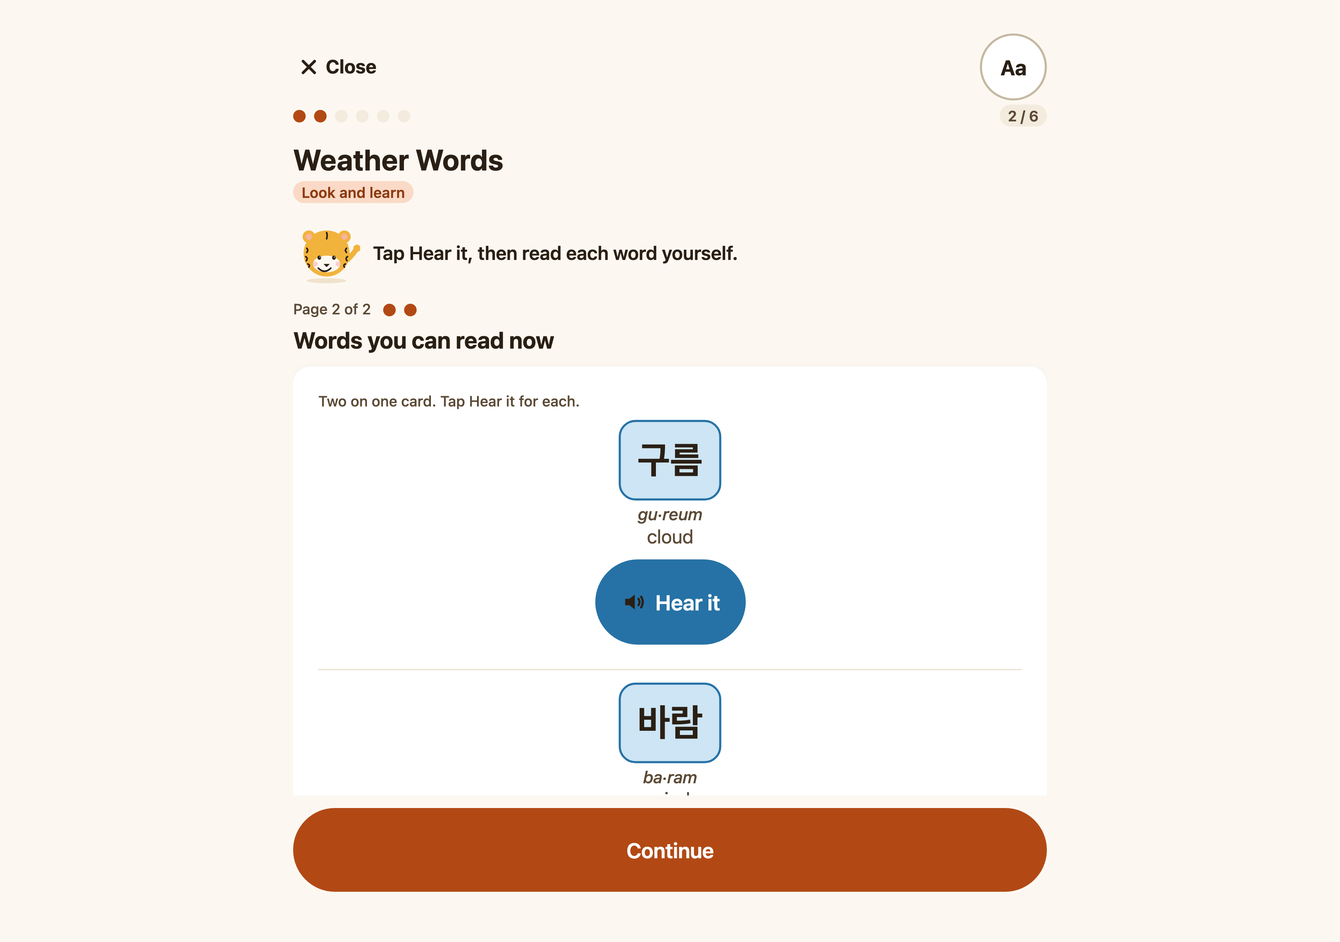
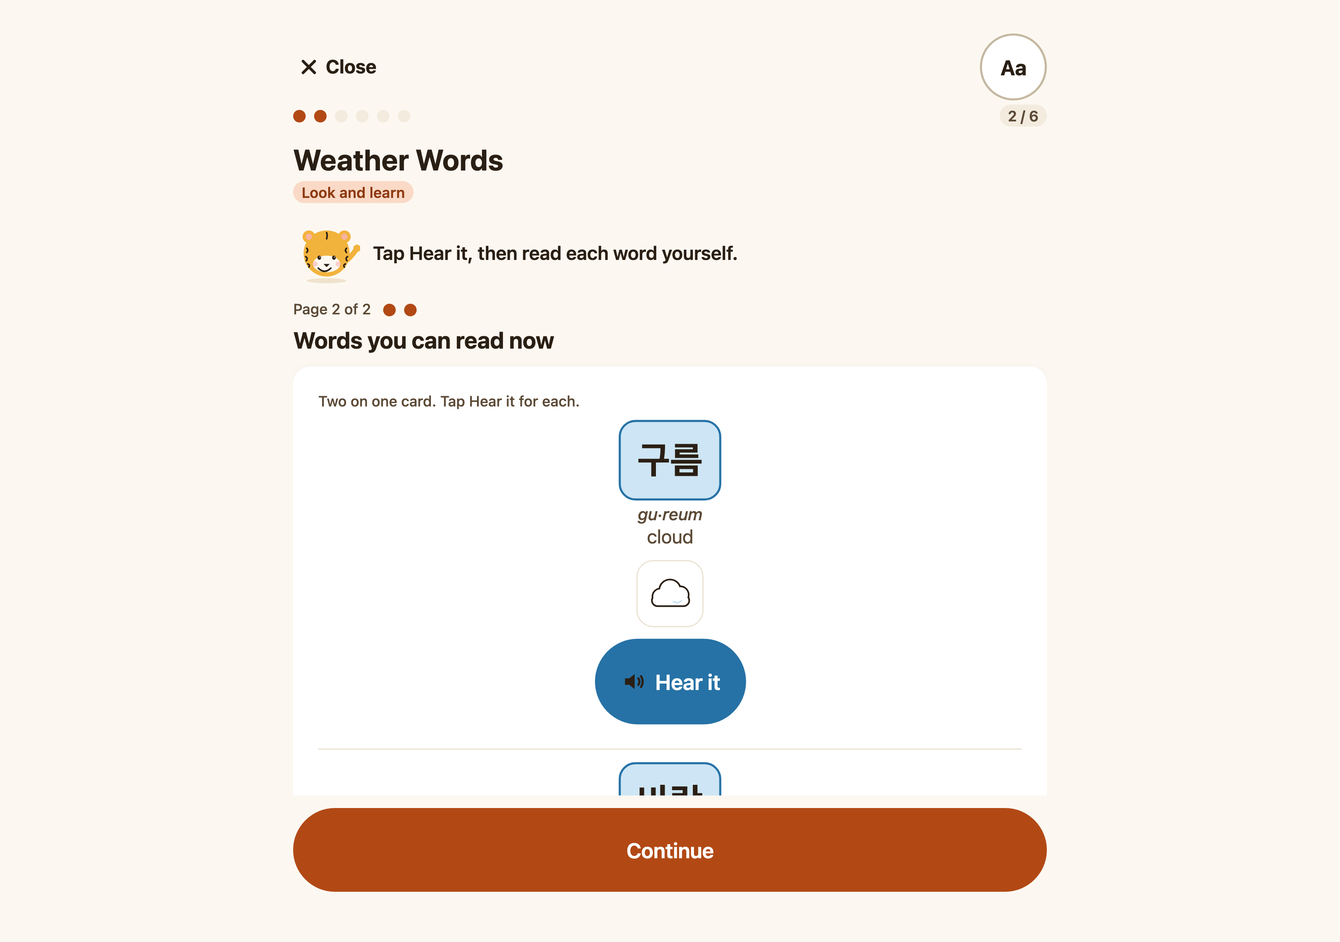
fix(mobile): adaptive pacing review fixes: scaffold ring stays on, pictures kept, every Practice scaffolds, ko ledger (F-CURR-002)
- Listen & Pick keeps a ring once it is on, so the scaffold round's hint survives a miss.
- The compact Discover card keeps each row's picture (smaller).
- Trace a Word and Realia Read Practices can scaffold (78 of 78); U-11 also checks no same-sound scaffold options (U-8) and that each shorter Apply keeps 2 rounds or more.
- planPacing acts only on this quest's run and only when the run reaches the compact page or the shorter Apply.
- A wrong scaffold answer is a plain miss; only a right one is marked hinted.
- ko compactLine per MAR; learner es and ko re-signed (enSha, reviewedBy MAR).
- e2e: compact card at Largest text size; player test waits on state, not a fixed delay.

Changed region(s): [[0.4375, 0.5911, 0.5625, 0.8711]]

diff --git a/apps/mobile/src/screens/quest/__tests__/quest-pacing-player.test.tsx b/apps/mobile/src/screens/quest/__tests__/quest-pacing-player.test.tsx
@@ -46,7 +46,13 @@ function adaptOn(on: boolean): void {
   useRemoteConfigStore.setState({ hydrated: true, cache: { v: 1, fetchedAt: 0, maxAgeS: 300, flags: { questAdapt: { on, pct: 100 } } } });
 }
 
-async function player(questId: string, step: number, reviewsFor: string | null = PROFILE) {
+/** Waits for the screen to reach a state (the Listen & Pick advance runs on a real timer), at most 2 s. */
+const until = async (done: () => boolean): Promise<void> => {
+  for (let i = 0; i < 40 && !done(); i += 1) await settle(50);
+  expect(done()).toBe(true);
+};
+
+async function player(questId: string, step: number | null, reviewsFor: string | null = PROFILE) {
   const ports = { start: () => step, end: vi.fn(), finish: vi.fn(), leave: vi.fn(), track: vi.fn() };
   const r = await render(<QuestPlayerView questId={questId} episodeId={CELL} ports={ports} onOpenGame={() => undefined} onBack={() => undefined} reviewsFor={reviewsFor} />);
   // The chunk loads as the run begins (a moment in the app, a module transform here).
@@ -103,6 +109,9 @@ describe('a strong Practice: the next quest of the cell is compact', () => {
     for (const item of page2.items) expect(shown.join(' ')).toContain(item.type === 'word' ? item.word.ko : '');
     const hears = card!.findAll((n) => typeof n.type === 'string' && /^discover-hear-.*\|sound$/.test(String(n.props['data-testid'] ?? '')));
     expect(hears).toHaveLength(2);
+    // Each row keeps its picture (smaller): the compact card only regroups the page.
+    const pictures = card!.findAll((n) => typeof n.type === 'string' && /^discover-picture-/.test(String(n.props['data-testid'] ?? '')));
+    expect(new Set(pictures.map((n) => String(n.props['data-testid']))).size).toBe(2);
     const [cont] = byTestId(second.r.root, 'discover-continue');
     expect(cont!.props['aria-disabled']).not.toBe(true);
     // The step counter is the quest's own, and the compact pace is reported once.
@@ -118,6 +127,19 @@ describe('a strong Practice: the next quest of the cell is compact', () => {
     const short = useQuestRunStore.getState().short;
     expect(short?.step).toBe(apply);
     expect(short?.scope.cardPairs).toHaveLength(3);
+  });
+
+  it('a run resumed past Apply, or no run at all, is not reported compact and marks no shorter Apply', async () => {
+    await player(Q1.id, PRACTICE);
+    await playPractice(0);
+    const apply = Q2.steps.findIndex((s) => s.kind === 'apply');
+    const resumed = await player(Q2.id, apply + 1);
+    expect(useQuestRunStore.getState().short).toBeNull();
+    expect(adaptEvents(resumed.ports.track)).toEqual([]);
+    useQuestRunStore.getState().reset();
+    const none = await player(Q2.id, null);
+    expect(useQuestRunStore.getState().short).toBeNull();
+    expect(adaptEvents(none.ports.track)).toEqual([]);
   });
 
   it('never makes the quest itself, an earlier quest, another learner or the off switch compact', async () => {
@@ -179,12 +201,37 @@ describe('a hard Practice: one scaffold round before Apply', () => {
 
     const ringed = options.find((o) => String(o.props['aria-label']).startsWith('Look here'))!;
     await press(ringed);
-    await settle(800);
+    await until(() => !screenTexts(r.root).includes(EN.learner.quest.adapt.scaffoldHint));
     // Recorded with the hint, as the memory store records every round; the quest's score and steps are untouched.
     expect(heard).toMatchObject([{ questId: Q1.id, episodeId: CELL, correct: true, hinted: true, asked: { itemId: 'scaffold:1' } }]);
     const after = useQuestRunStore.getState();
     expect([after.correctCount, after.totalCount, after.stepIndex, after.tries.length]).toEqual([before.correctCount, before.totalCount, before.stepIndex, before.tries.length]);
     expect(screenTexts(r.root)).not.toContain(EN.learner.quest.adapt.scaffoldHint);
+    expect(counter(screenTexts(r.root))).toBe(`${PRACTICE + 2} / ${Q1.steps.length}`);
+  });
+
+  it('a miss in the scaffold round keeps the ring on the right card; the miss is recorded once, unhinted, and unscored', async () => {
+    const heard: FirstRoundAnswer[] = [];
+    setFirstRoundAnswerListener((a) => heard.push(a));
+    const { r } = await player(Q1.id, PRACTICE);
+    await playPractice(2);
+    const before = { ...useQuestRunStore.getState() };
+    heard.length = 0;
+    const options = () => r.root.findAll((n) => typeof n.type === 'string' && /^listen-pick-option-o\d$/.test(String(n.props['data-testid'] ?? '')));
+    const ringed = () => options().filter((o) => String(o.props['aria-label']).startsWith('Look here'));
+    const other = options().find((o) => !String(o.props['aria-label']).startsWith('Look here'))!;
+    await press(other);
+    await settle(60);
+    // Still ringed after the miss, under the same hint line ("nothing is ever taken away").
+    expect(ringed()).toHaveLength(1);
+    expect(screenTexts(r.root)).toContain(EN.learner.quest.adapt.scaffoldHint);
+    await press(ringed()[0]!);
+    await until(() => !screenTexts(r.root).includes(EN.learner.quest.adapt.scaffoldHint));
+    expect(heard).toHaveLength(1);
+    expect(heard[0]).toMatchObject({ correct: false, asked: { itemId: 'scaffold:1' } });
+    expect(heard[0]).not.toHaveProperty('hinted');
+    const after = useQuestRunStore.getState();
+    expect([after.correctCount, after.totalCount, after.stars()]).toEqual([before.correctCount, before.totalCount, before.stars()]);
     expect(counter(screenTexts(r.root))).toBe(`${PRACTICE + 2} / ${Q1.steps.length}`);
   });
 

diff --git a/apps/mobile/e2e/web/quest-pacing.spec.ts b/apps/mobile/e2e/web/quest-pacing.spec.ts
@@ -3,6 +3,7 @@ import { readFileSync } from 'node:fs';
 import { join } from 'node:path';
 import { expect, test } from './fixtures';
 import { completeChildForm, headerClose, journeyCellName, keepSidewaysIfAsked, passDiscover, readStored, seedStored } from './helpers';
+import { expectTextFits } from './text-fit';
 
 /**
  * F-CURR-002 section 4.6 (row CM-24) on the web PWA, behind `questAdapt` (the remote copy is the stored one: this build
@@ -18,7 +19,7 @@ interface Cell {
 const NATURE = JSON.parse(readFileSync(join(__dirname, '../../../../content/episodes/stage-2/nature.json'), 'utf8')) as Cell;
 const BOARDS = (NATURE.quests[0]?.scopes.find((s) => s.kind === 'pic-word-match')?.boards ?? []).map((b) => b.pairs.map((p) => p.id));
 
-async function onboard(page: Page): Promise<void> {
+async function onboard(page: Page, textSize?: 'largest'): Promise<void> {
   await page.goto('/');
   await keepSidewaysIfAsked(page);
   await page.getByRole('button', { name: "Let's start" }).click();
@@ -28,6 +29,7 @@ async function onboard(page: Page): Promise<void> {
   const profiles = await readStored<Array<{ id: string }>>(page, 'profiles');
   expect(profiles?.[0]?.id).toBeTruthy();
   await seedStored(page, 'remote-config', { v: 1, fetchedAt: Date.now(), maxAgeS: 300, flags: { questAdapt: { on: true, pct: 100 } } });
+  if (textSize) await seedStored(page, 'device:settings', { uiLocale: 'en', uiLocaleAt: '2026-10-16T09:00:00.000Z', textSize });
   await page.goto('/');
   await expect(page.getByText('Hi, Dami!')).toBeVisible();
   const guide = page.getByTestId('install-guide');
@@ -162,5 +164,32 @@ test('two first-try misses in Practice play one scaffold round of the same words
   await expect(page.getByText(/^4 \/ 6$/)).toBeVisible();
   await expect(page.getByRole('button', { name: 'Play minigame' })).toBeVisible();
   await expect(page.getByTestId('listen-pick-hint')).toHaveCount(0);
+  expect(errors).toEqual([]);
+});
+
+test('the compact card fits at 320 px with the text size at Largest: no sideways scroll, no clipped text, pictures kept', async ({ page }) => {
+  const errors: string[] = [];
+  page.on('pageerror', (e) => errors.push(String(e)));
+  await onboard(page, 'largest');
+  await openNature(page);
+  await startQuest(page, 0);
+  await page.getByRole('button', { name: 'Continue' }).click();
+  await passDiscover(page);
+  await playPractice(page, 0);
+  await expect(page.getByText(/^4 \/ 6$/)).toBeVisible();
+  await headerClose(page).click();
+  await page.getByTestId('confirm-sheet-confirm').click();
+  await startQuest(page, 1);
+  await page.getByRole('button', { name: 'Continue' }).click();
+  await page.getByTestId('discover-continue').click();
+  const card = page.getByTestId('discover-compact');
+  await expect(card).toBeVisible();
+  // Each row keeps its picture: the compact card only regroups the page.
+  await expect(card.locator('[data-testid^="discover-picture-"]')).toHaveCount(2);
+  await page.setViewportSize({ width: 320, height: 568 });
+  await expectTextFits(page, 'the compact Discover card at Largest');
+  await targetsAtLeast48(page, card);
+  await page.setViewportSize({ width: 320, height: 568 });
+  await page.screenshot({ path: test.info().outputPath('pacing-compact-320-largest.png') });
   expect(errors).toEqual([]);
 });

diff --git a/apps/mobile/src/content/__tests__/upper-stage-curriculum.test.ts b/apps/mobile/src/content/__tests__/upper-stage-curriculum.test.ts
@@ -925,6 +925,8 @@ describe('U-11 every adapted path shows each new item on Discover before it is a
   });
 
   const QUESTS = READY.flatMap(({ cell }) => cell.quests);
+  const scaffolding = new Set<string>();
+  const shortened = new Map<string, [MinigameScope, MinigameScope]>();
   it('runs over every shipped lesson quest', () => {
     expect(QUESTS.length).toBeGreaterThanOrEqual(78);
   });
@@ -947,6 +949,14 @@ describe('U-11 every adapted path shows each new item on Discover before it is a
       const misses = missesOf(practice);
       const scaffolds = misses.flatMap((a, i) => misses.slice(i + 1).map((b) => scaffoldScope(practice, [a, b]))).filter((s): s is MinigameScope => s !== null);
       for (const s of scaffolds) for (const ko of scopeKo(s)) expect(practiceKo.has(ko), ko).toBe(true);
+      // U-8 on every scaffold: a heard round never offers two options that sound the same (soundKey, F-CURR-001 section 3.5).
+      for (const s of scaffolds) {
+        const options = s.listenPick!.rounds[0]!.options.map((o) => o.text!.ko);
+        expect(new Set(options.map(soundKey)).size, `${quest.id} scaffold ${options.join(' / ')}`).toBe(options.length);
+      }
+      if (scaffolds.length > 0) scaffolding.add(quest.id);
+      // The shorter Apply keeps two rounds or more, the first ones of the full Apply.
+      if (shorter) shortened.set(quest.id, [apply, shorter]);
       const scaffoldKo = [...new Set(scaffolds.flatMap(scopeKo))];
       const paths: PacedPath[] = [
         { name: 'standard', surfaces: surfacesOf(quest, false), asked: [...scopeKo(practice), ...scopeKo(apply), ...scopeKo(check)] },
@@ -959,4 +969,22 @@ describe('U-11 every adapted path shows each new item on Discover before it is a
       expect(quest).toEqual(before);
     });
   }
+
+  // After the per-quest checks above (vitest runs a describe's tests in order).
+  it('every shipped Practice with a listed word can scaffold, Trace a Word and keyed Realia Read included', () => {
+    const left = QUESTS.filter((q) => !scaffolding.has(q.id)).map((q) => `${q.id} (${scopeFor(q.steps.find((s) => s.kind === 'practice')!.minigameRef!)!.kind})`);
+    expect(left).toEqual([]);
+  });
+
+  it('every shorter Apply keeps two rounds or more and is the full Apply less its last round', () => {
+    expect(shortened.size).toBeGreaterThan(0);
+    const roundsOf = (s: MinigameScope): unknown[] =>
+      s.listenPick?.rounds ?? s.picWord?.boards ?? s.orderIt?.rounds ?? s.typeHangul?.rounds ?? s.writeFrame?.rounds ?? s.cardPairs ?? s.dialogue ?? [];
+    for (const [id, [full, short]] of shortened) {
+      const [a, b] = [roundsOf(full), roundsOf(short)];
+      expect(b.length, id).toBeGreaterThanOrEqual(2);
+      expect(b, id).toEqual(a.slice(0, -1));
+      expect(short.kind, id).toBe(full.kind);
+    }
+  });
 });

diff --git a/apps/mobile/src/logic/quest-flow/quest-scaffold.ts b/apps/mobile/src/logic/quest-flow/quest-scaffold.ts
@@ -1,4 +1,4 @@
-import type { KoText, ListenPickRound } from '@hangul-route/content-schema';
+import type { KoText, ListenPickRound, RealiaReadRound } from '@hangul-route/content-schema';
 import type { RoundAsked } from '../memory/asked';
 import type { MinigameScope } from '../minigame-config';
 
@@ -7,7 +7,8 @@ import type { MinigameScope } from '../minigame-config';
  * easier format (hear it, then pick it), over the Practice's own items, with the hint showing (the right card ringed
  * from the start). The prompt is the last item missed on the first try; the options are the missed items first,
  * then the Practice's other items, three at most. Nothing new is asked: every text is the Practice scope's own.
- * A Practice whose rounds ask no listed word (Realia Read asks a card, Trace a Word copies a word) has no scaffold.
+ * Trace a Word lists its traced words; Realia Read each round's key word (shown under its question) or, with none,
+ * its answer when the answer is a word (a picture or a figure answer lists nothing).
  */
 
 /** The Korean a scope's rounds ask, each once, in order. */
@@ -25,6 +26,15 @@ export function scopeItems(scope: MinigameScope): KoText[] {
       break;
     case 'listen-pick':
       all = (scope.listenPick?.rounds ?? []).filter((r) => !r.id.startsWith('lp:sym:')).map((r) => r.prompt);
+      break;
+    case 'trace-word':
+      all = (scope.traceWord?.rounds ?? []).map((r) => r.word);
+      break;
+    case 'realia-read':
+      all = (scope.realiaRead?.rounds ?? []).flatMap((r) => {
+        const word = realiaWord(r);
+        return word ? [word] : [];
+      });
       break;
     case 'tap-respond':
       all = (scope.dialogue ?? []).flatMap((t) =>
@@ -50,8 +60,15 @@ function askedKo(asked: RoundAsked): string | undefined {
     scope.picWord?.boards.flatMap((b) => b.pairs).find((p) => p.id === itemId)?.word.ko ??
     byId(scope.orderIt?.rounds)?.sentence.ko ??
     byId(scope.typeHangul?.rounds)?.target.ko ??
-    byId(scope.listenPick?.rounds)?.prompt.ko
+    byId(scope.listenPick?.rounds)?.prompt.ko ??
+    byId(scope.traceWord?.rounds)?.word.ko ??
+    realiaWord(byId(scope.realiaRead?.rounds))?.ko
   );
+}
+
+/** A Realia Read round's word: its key word, else its answer when that is a word. */
+function realiaWord(round: RealiaReadRound | undefined): KoText | undefined {
+  return round ? (round.key ?? round.options.find((o) => o.id === round.answerId)?.text) : undefined;
 }
 
 export const SCAFFOLD_ROUND_ID = 'scaffold:1';

diff --git a/apps/mobile/src/screens/quest/quest-pacing-chunk.tsx b/apps/mobile/src/screens/quest/quest-pacing-chunk.tsx
@@ -35,22 +35,27 @@ export interface PacingPlan {
 }
 
 /**
- * The run's pace, once the run has begun: a compact quest puts its shorter Apply scope in the run store (the game
- * screen plays it) and sends `quest.adapt { dir: 'compact' }` when something changes (a two-word second page, or an
- * Apply of 3 rounds or more).
+ * The run's pace, once this quest's run has begun (no run, or another quest's in the store: the standard path). A
+ * compact quest puts its shorter Apply scope in the run store (the game screen plays it) when the run is not yet past
+ * Apply, and sends `quest.adapt { dir: 'compact' }` only when the run will reach what changes: a two-word second
+ * Discover page the run is not past, or the shorter Apply. A run resumed past both sends nothing.
  */
 export function planPacing(input: { profileId: string; episodeId: string; questId: string; track: Track }): PacingPlan {
   const { profileId, episodeId, questId } = input;
   const index = episodeById(episodeId)?.questIds.indexOf(questId) ?? -1;
+  const run = useQuestRunStore.getState();
+  if (run.questId !== questId || run.episodeId !== episodeId) return { index, compact: false };
   const compact = compactFor(profileId, episodeId, index);
   const quest = questById(questId);
   if (compact && quest) {
     const apply = quest.steps.findIndex((s) => s.kind === 'apply');
+    const discover = quest.steps.findIndex((s) => s.kind === 'discover');
     const ref = quest.steps[apply]?.minigameRef;
-    const source = ref ? scopeFor(ref) : undefined;
+    const source = ref && run.stepIndex <= apply ? scopeFor(ref) : undefined;
     const shorter = source ? shortenScope(source) : null;
     if (shorter) useQuestRunStore.setState({ short: { step: apply, scope: shorter } });
-    if (shorter || compactSource(quest.steps.find((s) => s.kind === 'discover')?.discover?.pages[1])) sendAdapt(input.track, questId, 'compact');
+    const page2 = discover >= 0 && run.stepIndex <= discover && compactSource(quest.steps[discover]?.discover?.pages[1]);
+    if (shorter || page2) sendAdapt(input.track, questId, 'compact');
   }
   return { index, compact };
 }

diff --git a/apps/mobile/src/logic/quest-flow/__tests__/quest-scaffold.test.ts b/apps/mobile/src/logic/quest-flow/__tests__/quest-scaffold.test.ts
@@ -42,9 +42,24 @@ describe('the Practice items a scaffold may ask', () => {
     expect(scopeItems({ kind: 'tap-respond', dialogue: turns })).toEqual([{ ko: '안녕?', romanization: 'annyeong?', en: 'Hi?', audioRef: 'clip:x' }]);
   });
 
-  it('has nothing for a Practice whose rounds ask a card or a copied word', () => {
+  it('reads Trace a Word targets, and Realia Read key words or word answers (never a picture or a figure)', () => {
+    const trace: MinigameScope = { kind: 'trace-word', traceWord: { rounds: [{ id: 'w1', word: k('물', 'water') }, { id: 'w2', word: SEA }] } };
+    expect(scopeItems(trace).map((t) => t.ko)).toEqual(['물', '바다']);
+    expect(scaffoldScope(trace, [{ scope: trace, itemId: 'w1' }, { scope: trace, itemId: 'w2' }])?.listenPick?.rounds[0]?.prompt.ko).toBe('바다');
+    const realia: MinigameScope = {
+      kind: 'realia-read',
+      realiaRead: {
+        realia: { ref: 'realia:menu', kind: 'menu', entries: [{ id: 'e1', text: SKY }], altEn: 'A menu' },
+        rounds: [
+          { id: 'r1', questionEn: 'How much?', key: TREE, options: [{ id: 'a', figure: '5,000' }, { id: 'b', figure: '3,000' }], answerId: 'a' },
+          { id: 'r2', questionEn: 'Which one?', options: [{ id: 'a', text: STAR }, { id: 'b', text: SKY }], answerId: 'b' },
+          { id: 'r3', questionEn: 'Which picture?', options: [{ id: 'a', pictureRef: 'word:nature-sky', labelEn: 'sky' }, { id: 'b', pictureRef: 'word:nature-star', labelEn: 'star' }], answerId: 'a' },
+        ],
+      },
+    };
+    expect(scopeItems(realia).map((t) => t.ko)).toEqual(['나무', '하늘']);
+    expect(scaffoldScope(realia, [{ scope: realia, itemId: 'r2' }, { scope: realia, itemId: 'r3' }])?.listenPick?.rounds[0]?.prompt.ko).toBe('하늘');
     expect(scopeItems({ kind: 'realia-read' })).toEqual([]);
-    expect(scopeItems({ kind: 'trace-word', traceWord: { rounds: [{ id: 'w1', word: k('물', 'water') }] } })).toEqual([]);
   });
 });
 

diff --git a/apps/mobile/src/screens/quest/DiscoverStep.tsx b/apps/mobile/src/screens/quest/DiscoverStep.tsx
@@ -396,7 +396,7 @@ function DiscoverItemCard({
   copy: DiscoverMessages;
   a11y: Messages['a11y'];
   audio: CardAudio;
-  /** One of the compact card's two rows: no card of its own and no picture (the picture only repeats the word). */
+  /** One of the compact card's two rows: no card of its own; everything a card shows, the picture smaller. */
   bare?: boolean;
   /** A row under another row: a thin line above it. */
   divided?: boolean;
@@ -406,7 +406,7 @@ function DiscoverItemCard({
   const example = item.example;
   // The gloss each picture is given below, so "is there a picture" matches what PictureArt draws.
   const itemGloss = item.gloss ?? item.glyph;
-  const itemPicture = !bare && item.kind === 'word' && hasPicture(item.picture, itemGloss, PICTURE_CONTEXT);
+  const itemPicture = item.kind === 'word' && hasPicture(item.picture, itemGloss, PICTURE_CONTEXT);
   const examplePicture = example !== undefined && hasPicture(item.picture, example.gloss, PICTURE_CONTEXT);
 
   const body = (
@@ -437,7 +437,8 @@ function DiscoverItemCard({
         </Body>
       ) : null}
       {/* Decorative: the KoreanText line above already names the word (F-VOC-002 §3.7). */}
-      {itemPicture ? <PictureArt pictureRef={item.picture} gloss={itemGloss} size={touchTarget.hero} decorative /> : null}
+      {/* On the compact card each row keeps its picture, smaller, so the card only regroups the page (section 4.6). */}
+      {itemPicture ? <PictureArt pictureRef={item.picture} gloss={itemGloss} size={bare ? touchTarget.min : touchTarget.hero} decorative testID={`discover-picture-${item.key}`} /> : null}
 
       <HearButton
         action={item.hear}

diff --git a/apps/mobile/src/logic/listen-pick-flow.ts b/apps/mobile/src/logic/listen-pick-flow.ts
@@ -13,7 +13,7 @@ import type { HostMode } from '../screens/minigames/host';
  * Rules in one place: round 1 never autoplays (first audio needs a gesture),
  * round 2 on does; replay is unlimited; a wrong tap locks that option, ends
  * nothing, nudges, and replays the prompt after 800 ms unless the learner acts
- * first; a second miss rings the right option; the right tap resolves the
+ * first; a second miss rings the right option (a ring once on stays for the round); the right tap resolves the
  * round and the next one opens 700 ms later; the first answer in a round is
  * the scored one (the run store keeps later ones as retries, `first-try.ts`);
  * only the first touch in a 50 ms window counts (F-001 §3.4).
@@ -106,7 +106,8 @@ function tapStep(state: ListenPickFlowState, event: Extract<FlowEvent, { type: '
 
   const wrongIds = [...state.wrongIds, event.optionId];
   return {
-    state: { ...state, wrongIds, hint: wrongIds.length >= 2, lastTapAt: event.at },
+    // Once on, the ring stays for the round (the scaffold round starts with it on, F-CURR-002 section 4.6).
+    state: { ...state, wrongIds, hint: state.hint || wrongIds.length >= 2, lastTapAt: event.at },
     effects: [
       { type: 'answer', roundKey: state.roundIdx, correct: false },
       { type: 'haptic', kind: 'nudge' },

diff --git a/apps/mobile/src/store/quest-run-store.ts b/apps/mobile/src/store/quest-run-store.ts
@@ -138,13 +138,14 @@ export const useQuestRunStore = create<State & Actions>((set, get) => ({
 
 /**
  * A round played beside the steps (the scaffold round, F-CURR-002 section 4.6): its first answer goes to the memory
- * store with the hint flag, as every round's does, and is not scored, so the quest's stars are its own.
+ * store as every round's does, and is not scored, so the quest's stars are its own. A right answer carries the hint
+ * flag; a wrong one is a plain miss (a hinted answer is never wrong, `logic/memory/spacing.ts`).
  */
 export function answerAside(asked: RoundAsked, correct: boolean): void {
   const { questId, episodeId } = useQuestRunStore.getState();
   if (!firstAnswerListener || !questId || !episodeId) return;
   try {
-    firstAnswerListener({ questId, episodeId, correct, asked, at: new Date(), hinted: true });
+    firstAnswerListener({ questId, episodeId, correct, asked, at: new Date(), ...(correct ? { hinted: true } : {}) });
   } catch {
     // Only the memory store misses the answer.
   }

diff --git a/apps/mobile/src/logic/__tests__/listen-pick-flow.test.ts b/apps/mobile/src/logic/__tests__/listen-pick-flow.test.ts
@@ -168,6 +168,14 @@ describe('a wrong tap', () => {
     expect(second.wrongIds).toEqual(['b', 'c']);
   });
 
+  it('keeps a ring that is on from the start through a miss (the scaffold round, F-CURR-002 section 4.6)', () => {
+    const ringed = { ...startFlow(1), hint: true };
+    const missed = run(ringed, [tap('b', 100)]).state;
+    expect(missed.hint).toBe(true);
+    expect(missed.wrongIds).toEqual(['b']);
+    expect(run(missed, [tap('c', 900)]).state.hint).toBe(true);
+  });
+
   it('replays the prompt when the replay timer fires while still asking', () => {
     const asking = run(startFlow(2), [tap('b', 100)]).state;
     expect(stepFlow(asking, { type: 'replay-due' }).effects).toEqual([{ type: 'play', why: 'replay' }]);

diff --git a/apps/mobile/src/store/__tests__/quest-run-store.test.ts b/apps/mobile/src/store/__tests__/quest-run-store.test.ts
@@ -233,6 +233,10 @@ describe('quest-run-store', () => {
       answerAside({ texts: ['배'] }, true);
       expect(heard).toMatchObject([{ questId: 'quest:x', episodeId: 'episode:y', correct: true, hinted: true, asked: { texts: ['배'] } }]);
       expect(useQuestRunStore.getState()).toMatchObject({ totalCount: 0, correctCount: 0, tries: [] });
+      // A wrong answer is a plain miss: a hinted answer is never wrong (logic/memory/spacing.ts).
+      answerAside({ texts: ['배'] }, false);
+      expect(heard[1]).toMatchObject({ correct: false });
+      expect(heard[1]).not.toHaveProperty('hinted');
       setFirstRoundAnswerListener(() => {
         throw new Error('store down');
       });

diff --git a/packages/i18n/src/messages/ko/learner.ts b/packages/i18n/src/messages/ko/learner.ts
@@ -494,7 +494,7 @@ export const learner = {
         readingNow: { pill: '지금 읽는 중' },
         lineLabel: (line: number, total: number, speaker: string) => `${total}줄 중 ${line}번째 줄, ${speaker}`,
       },
-      compactLine: '한 카드에 두 개가 있어요. 하나씩 들어 보기를 눌러요.',
+      compactLine: '카드 한 장에 두 개가 있어요. 하나씩 들어 보기를 눌러요.',
     },
     adapt: {
       scaffoldHint: '힌트를 보며 하나 더 해요. 듣고 강조된 카드를 눌러요.',
